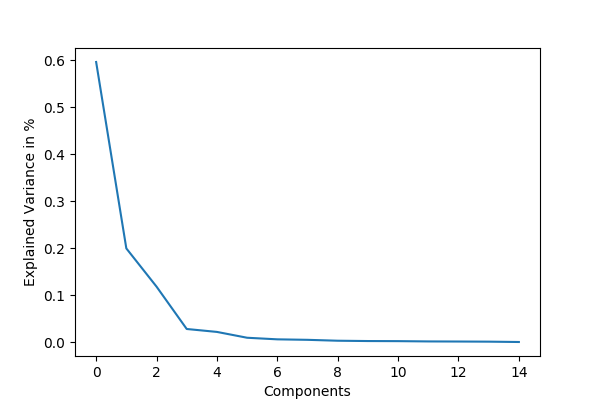
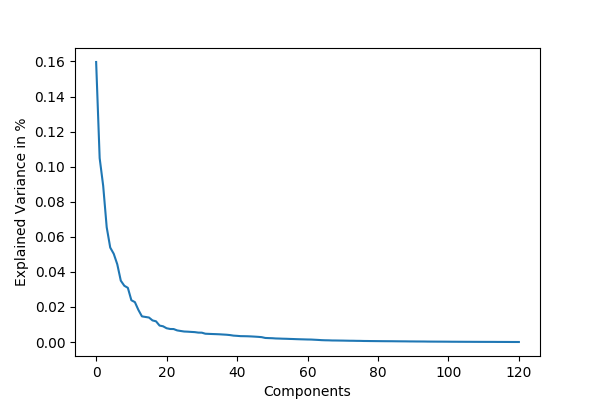
Update almost everything

diff --git a/preprocessing/features.py b/preprocessing/features.py
@@ -6,7 +6,7 @@ import pandas as pd
 from preprocessing import cleaning
 
 
-class FeatureGenerator(object):
+class FeatureGenerator:
     """Generate Features for the different algorithms.
 
     This class interface facilitates the fitting and transforming of different
@@ -73,6 +73,7 @@ class FeatureGenerator(object):
 
         self.color_woe, self.month_woe, self.size_woe = None, None, None
         self.price_qs = None
+        self.dummies = None
         self.outfeatures = None
         with open(os.path.join("preprocessing", "blacklist.txt"), "r") as f:
             self.dropcols = f.read().splitlines()
@@ -177,8 +178,8 @@ class FeatureGenerator(object):
         # Add dummies
         if add_dummies:
             dummy_cols = ["user_title", "user_state", "item_size_cl", "month"]
-            dummies = pd.get_dummies(X[dummy_cols])
-            out = pd.concat([out, dummies], axis=1)
+            self.dummies = pd.get_dummies(X[dummy_cols])
+            out = pd.concat([out, self.dummies], axis=1)
             q1, q2, q3 = self.price_qs
             out["is_q1_value"] = out.item_price <= q1
             out["is_q2_value"] = (out.item_price > q1) & (out.item_price <= q2)
@@ -196,7 +197,7 @@ class FeatureGenerator(object):
         if self.cols is None:
             self.cols = out.columns.tolist()
 
-        out = out.loc[:, self.cols].values.astype(np.float64)
+        out = out[self.cols].values.astype(np.float64)
 
         # HACK:
         if self.target_col in X.columns:
@@ -329,12 +330,14 @@ class FeatureGenerator(object):
 
 
 if __name__ == "__main__":
-    traindatapath = os.path.join("data", "BADS_WS1819_known.csv")
-    preddatapath = os.path.join("data", "BADS_WS1819_unknown.csv")
-    known = cleaning.clean(traindatapath)
-    unknown = cleaning.clean(preddatapath)
+    DATAPATH = os.path.join("data", "BADS_WS1819_known.csv")
+    UNKNOWNPATH = os.path.join("data", "BADS_WS1819_unknown.csv")
 
-    fg = FeatureGenerator()
-    X_known, y_known = fg.fit_transform(known, "return")
+    KNOWN = cleaning.clean(DATAPATH)
+    UNKNOWN = cleaning.clean(UNKNOWNPATH)
+    HISTORY = KNOWN.append(UNKNOWN, sort=False)
+    FG = FeatureGenerator()
+    FG.fit(HISTORY, "return")
 
-    X_unknown = fg.transform(unknown)
+    X_KNOWN, Y_KNOWN = FG.transform(KNOWN, add_dummies=True)
+    X_KNOWN.describe(include="all")

diff --git a/models/randomforest.py b/models/randomforest.py
@@ -80,13 +80,15 @@ known = clean(datapath)
 unknown = clean(unknownpath)
 history = known.append(unknown, sort=False)
 
-
 train, test = train_test_split(known, test_size=0.2)
 
-fg = FeatureGenerator()
+with open("variables.txt", "r") as f:
+    cols = f.read().splitlines()
+
+fg = FeatureGenerator(cols=cols)
 fg.fit(history, 'return')
-X_train, y_train = fg.transform(train, ignore_woe=False)
-X_test, y_test = fg.transform(test, ignore_woe=False)
+X_train, y_train = fg.transform(train, ignore_woe=False, add_dummies=True)
+X_test, y_test = fg.transform(test, ignore_woe=False, add_dummies=True)
 
 # 4. Define model pipeline.
 steps = [('scaler', StandardScaler()),
@@ -96,17 +98,17 @@ pipeline = Pipeline(steps)
 # 5. Define hyperparameter space.
 paramspace = {
     "rf__n_estimators": scope.int(hp.quniform("rf__n_estimators",
-                                              100, 25000, 1)),
+                                              100, 250, 1)),
     "rf__max_features": hp.uniform("rf__max_features", 0.2, 0.7),
     "rf__max_depth": scope.int(hp.quniform("rf__max_depth",
-                                           1, 250, 1)),
+                                           1, 500, 1)),
     "rf__min_samples_split": hp.uniform("rf__min_samples_split", 0.0001, 0.05),
     "rf__min_samples_leaf": hp.uniform("rf__min_samples_leaf", 0.001, 0.05),
     "rf__n_jobs": -1}
 
 # 6. Perform hyperparameter tuning with train data.
 trials = Trials()
-best = max_auc(paramspace=paramspace, trials=trials, max_evals=100)
+best = max_auc(paramspace=paramspace, trials=trials, max_evals=10)
 
 logger.info("{0} Optimal Parameter Space {0}".format("-" * 12))
 for param, val in best.items():
@@ -117,10 +119,10 @@ best["rf__max_depth"] = int(best["rf__max_depth"])
 
 # 7. Fit pipeline with whole dataset and save predictions.
 print("Generate Features")
-fg = FeatureGenerator()
+fg = FeatureGenerator(cols=cols)
 fg.fit(history, 'return')
-X, y = fg.transform(known, ignore_woe=False)
-X_pred = fg.transform(unknown, ignore_woe=False)
+X, y = fg.transform(known, ignore_woe=False, add_dummies=True)
+X_pred = fg.transform(unknown, ignore_woe=False, add_dummies=True)
 
 print("Calculate Predictions")
 clf = pipeline.set_params(**best)

diff --git a/eda/get_high_corr.py b/eda/get_high_corr.py
@@ -15,7 +15,8 @@ if __name__ == "__main__":
     history = known.append(unknown, sort=False)
     fg = FeatureGenerator()
     fg.fit(history, 'return')
-    _, _ = fg.transform(known, ignore_woe=False)
+    _, _ = fg.transform(known, ignore_woe=False, add_dummies=True,
+                        add_interactions=True, add_ratios=True)
     out = fg.outfeatures.copy()
 
     corr = out.corr()
@@ -24,7 +25,7 @@ if __name__ == "__main__":
     table = pd.melt(corr.reset_index(), id_vars="index")
     table.columns = ["var1", "var2", "correlation"]
     not_variance = (table.var1 != table.var2)
-    table = table.loc[not_variance & (table.correlation.abs() > 0.7)]
+    table = table.loc[not_variance & (table.correlation.abs() > 0.9)]
 
     problematic = table.groupby("var1").var2.nunique()
     print(problematic.sort_values(ascending=False))
@@ -35,11 +36,16 @@ if __name__ == "__main__":
     update_table = table.sort_values("correlation", ascending=False)[::2]
 
     if update == "y":
+        i = 0
         print("Update blacklist.txt")
         for idx, row in update_table.iterrows():
             var1, var2, corr = row
             while True:
                 try:
+                    i += 1
+                    print("=" * 60)
+                    print("{0:^60s}".format("Decision Nr: " + str(i)))
+                    print("=" * 60)
                     print("1: {0:>40s}".format(var1))
                     print("2: {0:>40s}".format(var2))
                     print("Correlation:", corr)
@@ -51,6 +57,7 @@ if __name__ == "__main__":
                     var_idx = int(var) - 1
                     break
                 except Exception:
+                    i -= 1
                     print("Entry invalid.")
                     continue
             if var != "n":

diff --git a/preprocessing/cleaning.py b/preprocessing/cleaning.py
@@ -135,10 +135,10 @@ def clean(datapath):
 
     # "Cleaned" item size column
     data["item_size_cl"] = data.item_size.str.upper()
-    data["item_size_cl"] = data.item_size.str.replace("+", ".5")
-    data["item_size_cl"] = data.item_size.str.replace("[xX]{2,}[Ll]", "XL")
-    data["item_size_cl"] = data.item_size.str.replace("[xX]{2,}[Ss]", "XS")
-    data["item_size_cl"] = data.item_size.apply(clean_size)
+    data["item_size_cl"] = data.item_size_cl.str.replace("+", ".5")
+    data["item_size_cl"] = data.item_size_cl.str.replace("[xX]{2,}[Ll]", "XL")
+    data["item_size_cl"] = data.item_size_cl.str.replace("[xX]{2,}[Ss]", "XS")
+    data["item_size_cl"] = data.item_size_cl.apply(clean_size)
 
     return data
 

diff --git a/eda/pca.py b/eda/pca.py
@@ -30,7 +30,10 @@ HISTORY = KNOWN.append(UNKNOWN, sort=False)
 
 TRAIN, TEST = train_test_split(KNOWN, test_size=0.2)
 
-FG = FeatureGenerator()
+with open("variables.txt", "r") as f:
+    COLS = f.read().splitlines()
+
+FG = FeatureGenerator(cols=COLS)
 FG.fit(HISTORY, 'return')
 X_TRAIN, Y_TRAIN = FG.transform(TRAIN,
                                 add_ratios=True,
